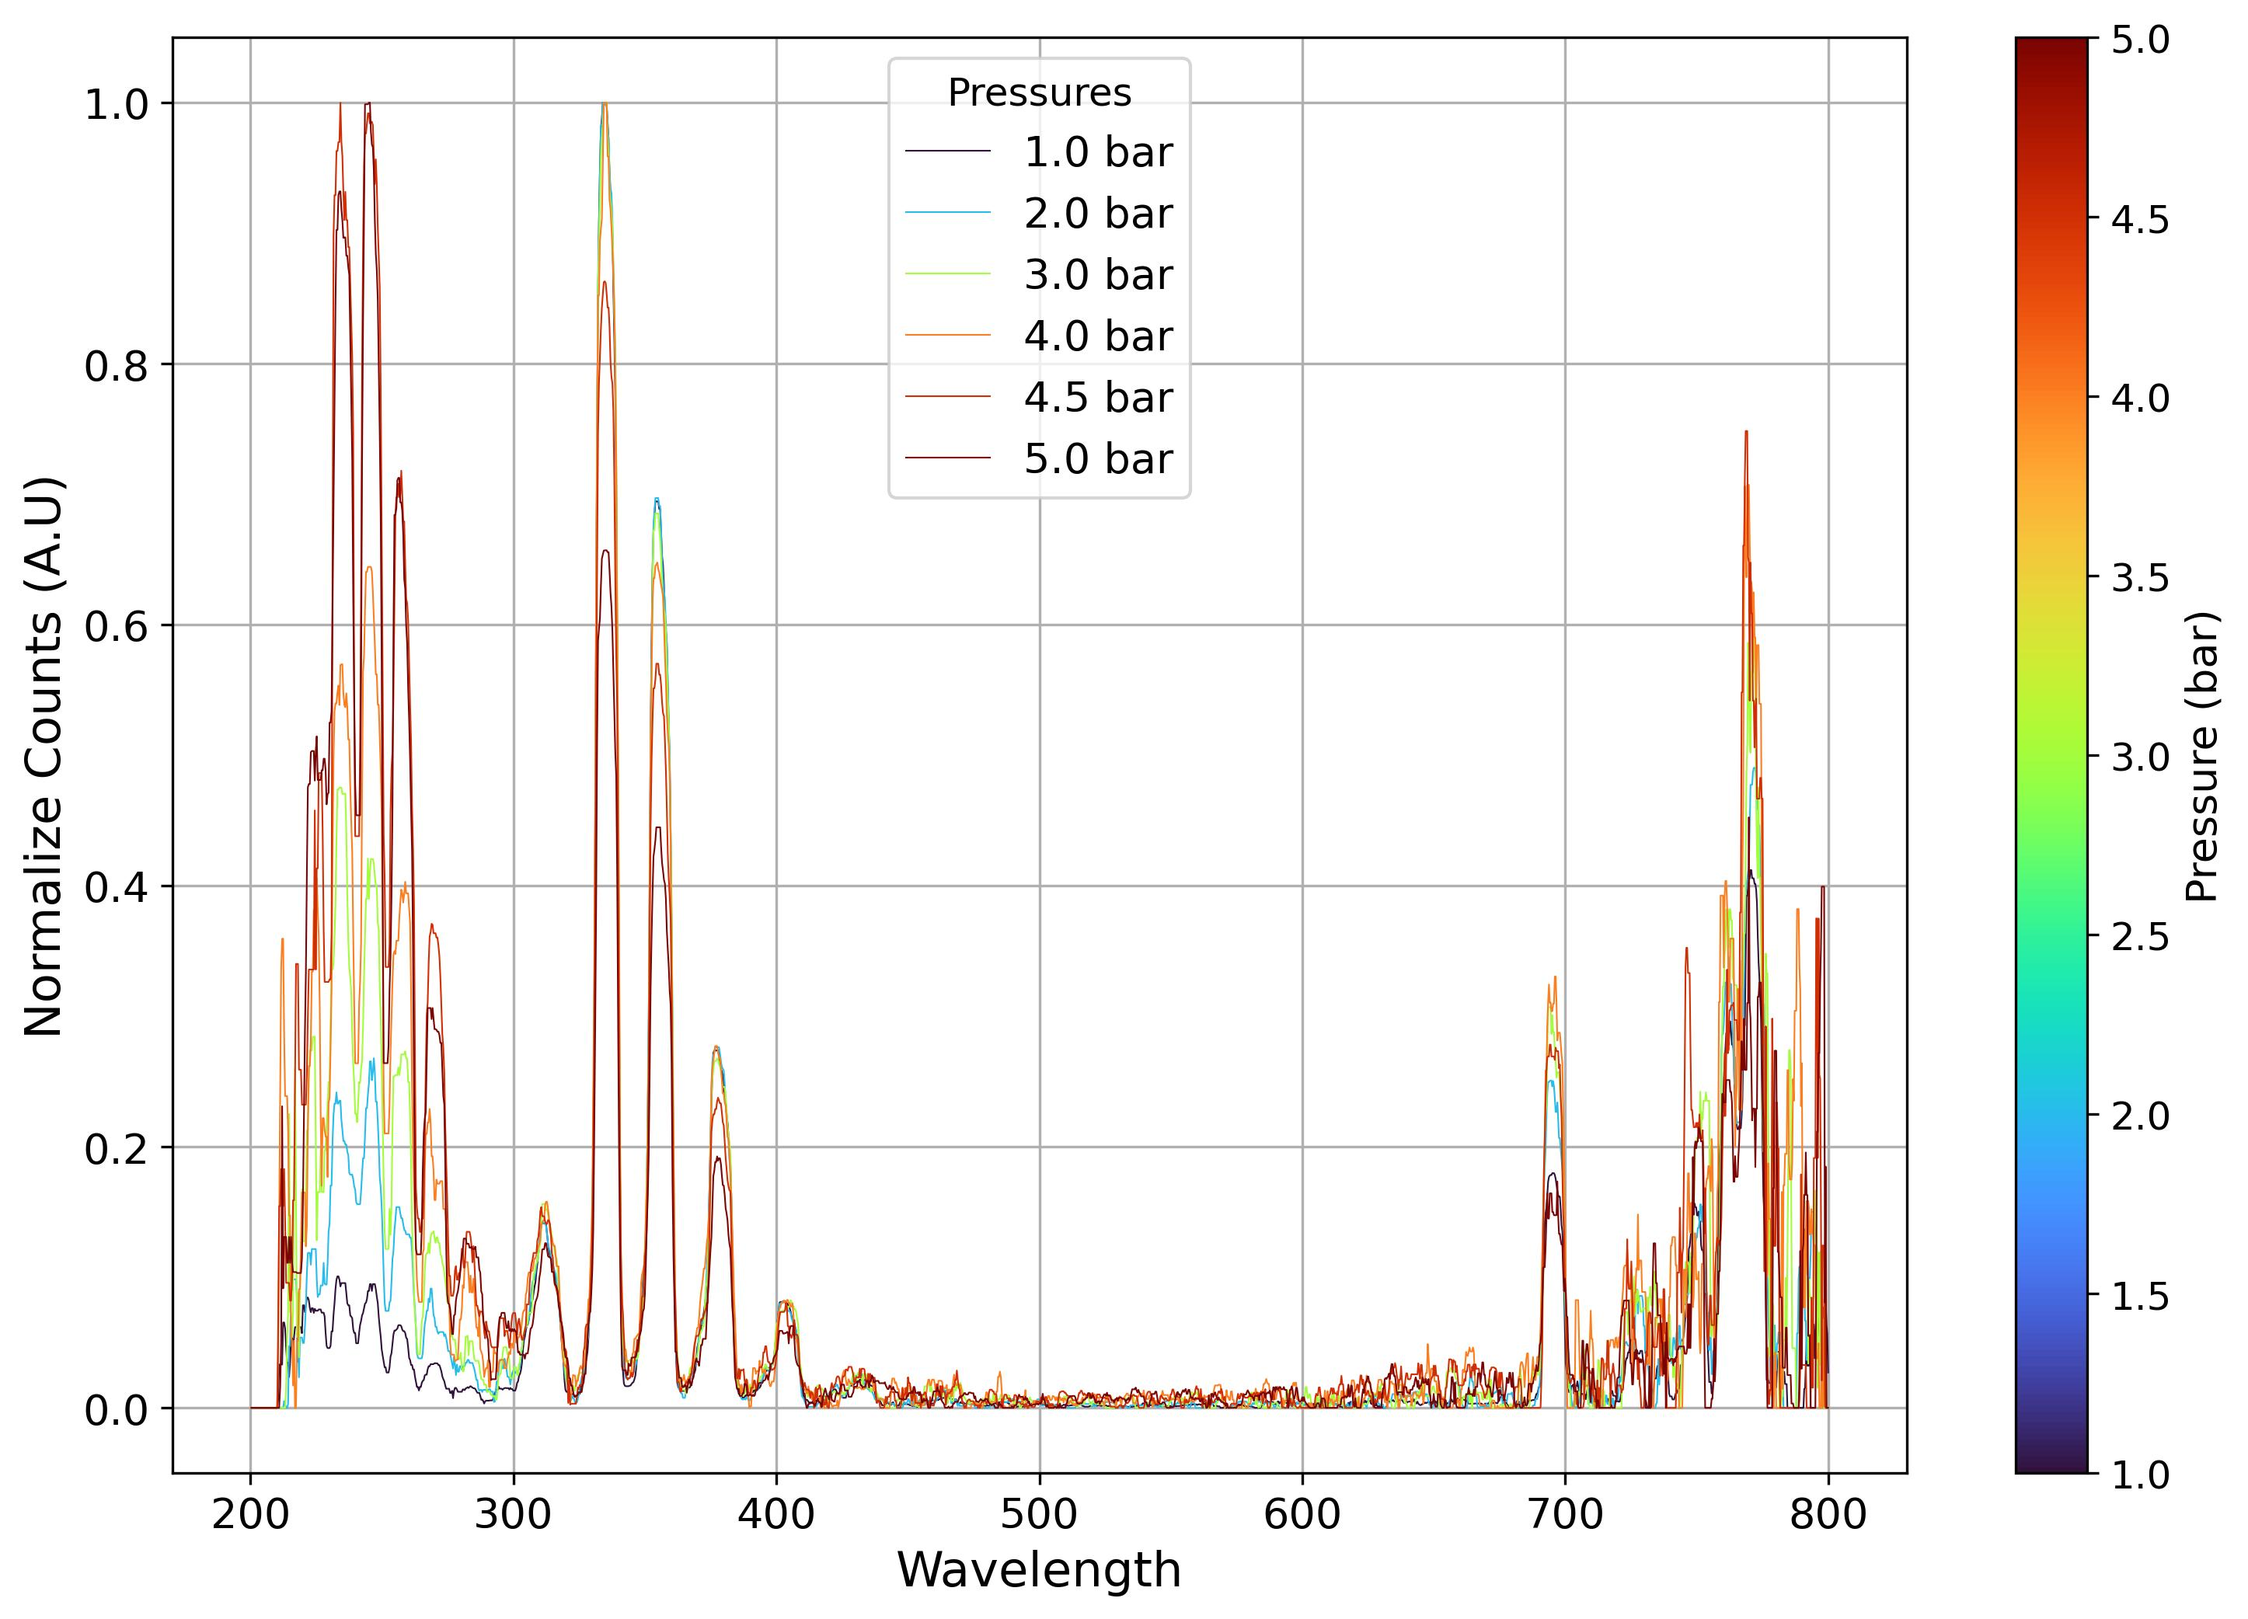
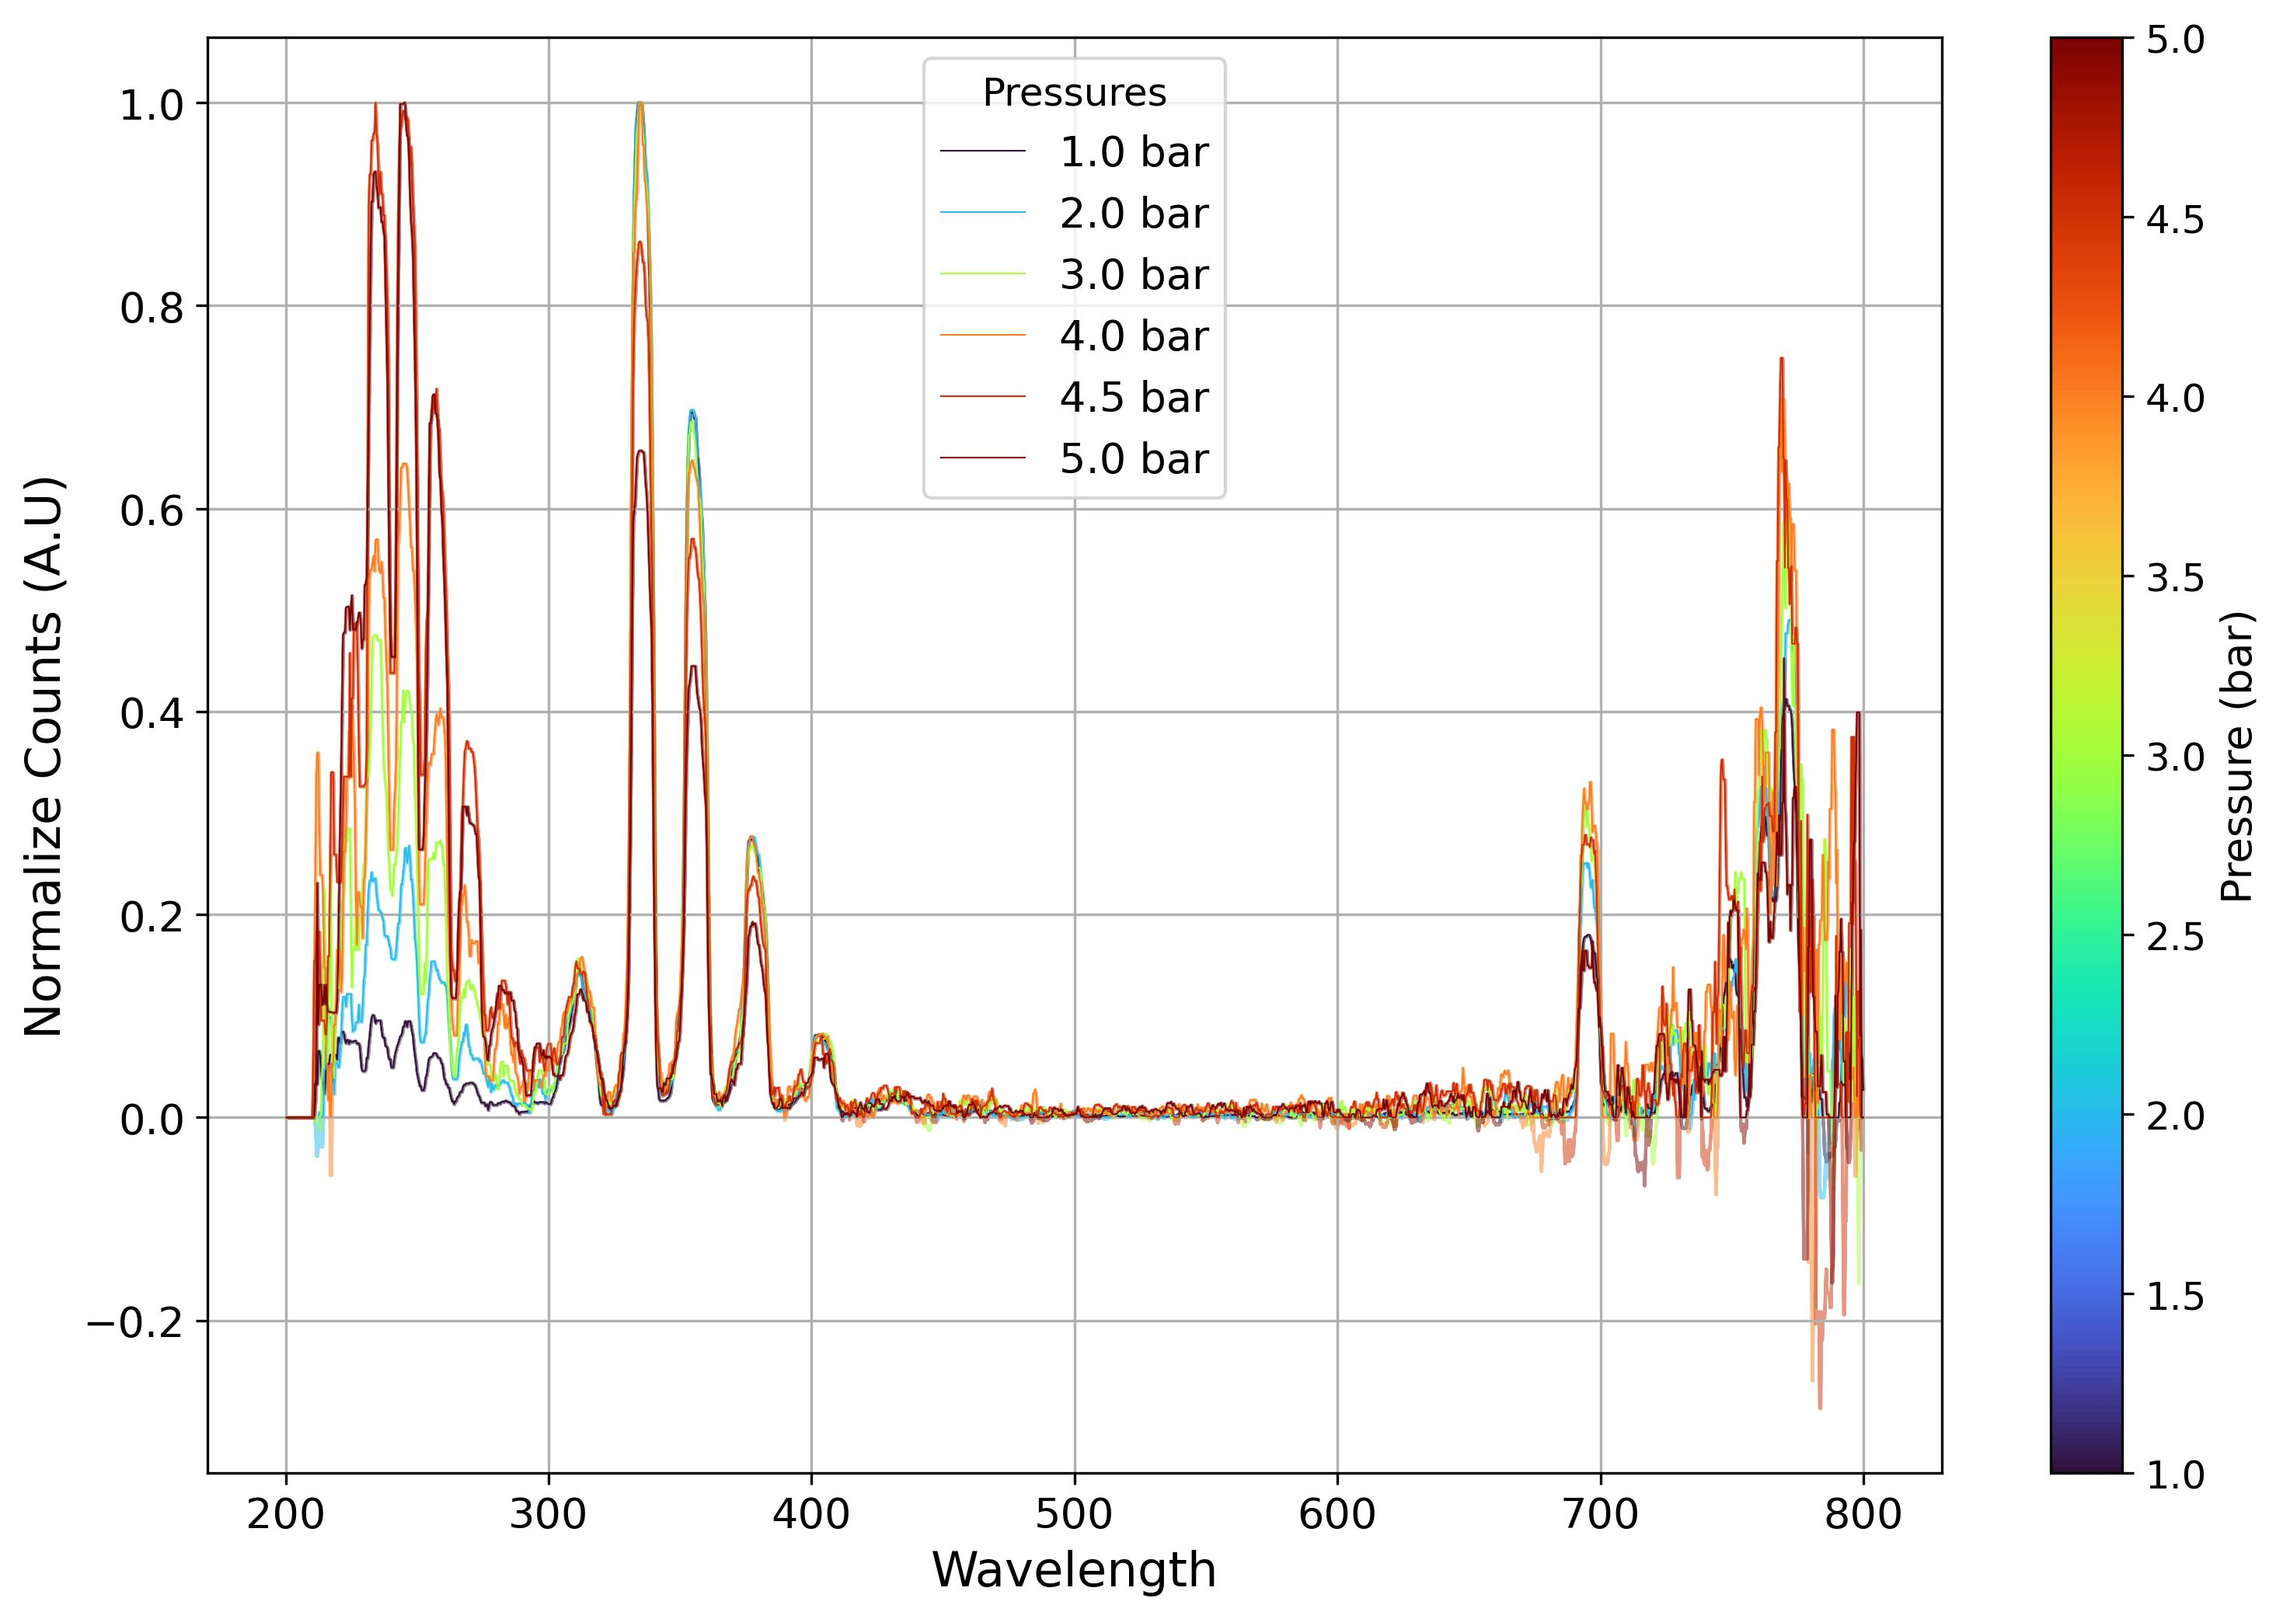
Uncertanties and reference

diff --git a/Programmes/Ultraviolet.py b/Programmes/Ultraviolet.py
@@ -83,16 +83,35 @@ def extraer_presion(ruta):
                 return float('inf')  # Por si hay algún error, lo manda al final
     return float('inf')
 
-def integral(dt, col_x, col_y, lim_inf, lim_sup):
+def integral(dt, col_x, err_x, col_y, err_y, lim_inf, lim_sup):
     mask = (dt[col_x] >= lim_inf) & (dt[col_x] <= lim_sup)
-    dt_filtered = dt[mask].sort_values(by=col_x)
+    dt_filtered = dt[mask].sort_values(by=col_x).reset_index(drop=True)
 
-    # Calcular la integral con método del trapecio
-    area = np.trapezoid(y=dt_filtered[col_y], x=dt_filtered[col_x])
+    x = dt_filtered[col_x].values
+    y = dt_filtered[col_y].values
+    dy = dt_filtered[err_y].values  # Uncertainty in y
+    dx = dt_filtered[err_x].values if err_x in dt_filtered.columns else np.diff(x, prepend=x[0])
 
-    return area
+    # Trapezoidal integration
+    area = np.trapezoid(y=y, x=x)
 
-element_mix = 'N2'
+    error_squared = 0
+    for i in range(len(x)-1):
+        base = x[i+1] - x[i]
+        avg_y_err_sq = base**2 * (dy[i+1]**2+dy[i]**2)
+        error_squared += avg_y_err_sq
+
+    total_error = np.sqrt(error_squared)
+
+    return area, total_error
+
+# Errores:
+err_SC = 0.05e-7 #A
+err_lambda = 50 #nm
+err_pressure = 5e-3 #bar
+#----------------
+
+element_mix = 'N2' 
 Mix_Integrals = {}
 list_concentraciones = [1,5]
 
@@ -111,8 +130,6 @@ for concentration_mix in list_concentraciones:
 
     rutas = glob(pattern)
     rutas_ordenadas = sorted(rutas, key=extraer_presion)
-
-    err_SC = 0.05e-7
 
     pressures = []
     currents = []
@@ -152,30 +169,34 @@ for concentration_mix in list_concentraciones:
         df = pd.DataFrame({
                 'Lambda': df_results['Lambda'],
                 'Counts': df_results['Counts'],
-                'Counts_norm': df_results['Counts']/max(df_results['Counts']),
                 'Err_Counts': np.sqrt(df_results['Counts'].clip(lower=0)),
+                'Counts_norm': df_results['Counts']/max(df_results['Counts']),
+                'Err_Counts_norm': np.sqrt(df_results['Counts'].clip(lower=0))/max(df_results['Counts']),
                 'Phe':df_phe,
                 'Err_Phe': err_phe
                 })
 
         data.append(df)
 
-        # [0]: Corriente de Saturacion
-        # [1]: Voltaje de Saturacion
-        # [2]: Numero de Electrones
-        # [3]: Array photons per electron
-
 #   ---- Calculo Integral ----
 
     print('Lista de presiones: ', pressures)
     integrales = []
+    err_integral = []
     for ValPressure in pressures:
-        sum = integral(data[int(ValPressure)], 'Lambda', 'Phe', 200, 300)
+        sum, err = integral(data[int(ValPressure)], 
+                       'Lambda', err_lambda,
+                       'Phe', 'Err_Phe',
+                       200, 300)
         integrales.append(sum)
+        err_integral.append(err)
+
+    print(err_integral)
 
     df = pd.DataFrame({
             'Pressures': pressures,
-            'integrals': integrales 
+            'integrals': integrales, 
+            'Err_int': err_integral
             })
 
     Mix_Integrals[concentration_mix] = df
@@ -227,10 +248,21 @@ for concentration_mix in list_concentraciones:
 
 plt.figure(figsize=(12,8))
 
-plt.plot(Mix_Integrals[1]['Pressures'], Mix_Integrals[1]['integrals'],
-         label='99/1', color='crimson')
-plt.plot(Mix_Integrals[5]['Pressures'], Mix_Integrals[5]['integrals'],
-         label='95/5', color='navy')
+plt.errorbar(Mix_Integrals[1]['Pressures'], 
+             Mix_Integrals[1]['integrals'], 
+             xerr= err_pressure,
+             yerr = Mix_Integrals[1]['Err_int'],
+             label='99/1', 
+             fmt='^', markersize = 10,
+             color='crimson')
+
+plt.errorbar(Mix_Integrals[5]['Pressures'], 
+         Mix_Integrals[5]['integrals'],
+         xerr = err_pressure,
+         yerr= Mix_Integrals[5]['Err_int'],
+         label='95/5', 
+         fmt='v', markersize = 10, 
+         color='navy')
 
 plt.legend(fontsize=20)
 plt.xlabel('Pressure (bar)', fontsize=15)

diff --git a/Programmes/Pressure_variance.py b/Programmes/Pressure_variance.py
@@ -92,8 +92,16 @@ def integral(dt, col_x, col_y, lim_inf, lim_sup):
 
     return area
 
+# ------ Errors -----------
+
+err_SC = 0.05e-7
+
+# -------- element and concentration ------------
+
 element_mix = 'N2'
-concentration_mix = 5
+concentration_mix = 1
+
+# -------- Pahts ------------
 
 excel_path = r'C:\Users\genar\VSC code\CERN-Summer\Whole_Data.xlsx'
 base_path = rf'C:\Users\genar\Documents\CERN Summer 2025\Carpeta para CERNbox\Spectra_2025_Pablo_Raul_Genaro\{element_mix}\{concentration_mix}'
@@ -102,7 +110,27 @@ pattern = os.path.join(base_path, '*_bar', '40kV40mA', '0V')
 rutas = glob(pattern)
 rutas_ordenadas = sorted(rutas, key=extraer_presion)
 
-err_SC = 0.05e-7
+# ------ Reference --------
+
+Ruta_Candela = r"C:\Users\genar\Documents\CERN Summer 2025\Carpeta para CERNbox\Spectra_2025_Pablo_Raul_Genaro\CF4\5\5_bar\40kV40mA\After_WindowChange"
+
+Candela_FD = RP(Ruta_Candela)
+df_candela = Candela_FD['calibratedResults']
+
+filters_candela = {
+    'Element A': 'Ar',
+    'Concentration A':  95,
+    'Element B': 'CF4',
+    'Concentration B': 5,
+    'Pressure (bar)': 5
+}
+
+Current_candela = Excel_value(excel_path, filters_candela, 'SC')
+NumElectronsCandela = Current_candela / (-1.602176634e-19)
+
+Candela_phe = df_candela['Counts'] / NumElectronsCandela
+
+# -------------------------------------------------------
 
 pressures = []
 currents = []
@@ -142,8 +170,9 @@ for i in rutas_ordenadas:
     df = pd.DataFrame({
             'Lambda': df_results['Lambda'],
             'Counts': df_results['Counts'],
-            'Counts_norm': df_results['Counts']/max(df_results['Counts']),
             'Err_Counts': np.sqrt(df_results['Counts'].clip(lower=0)),
+            'Counts_norm': df_results['Counts']/max(df_results['Counts']),
+            'Err_Counts_norm': np.sqrt(df_results['Counts'].clip(lower=0))/max(df_results['Counts']),
             'Phe':df_phe,
             'Err_Phe': err_phe
             })
@@ -212,6 +241,11 @@ for i in range(len(pressures)):
             label=f'{pressures[i]} bar',
             color=color,
             linewidth=0.5)
+    ax.fill_between(data[i]['Lambda'], 
+                    data[i]['Counts']-data[i]['Err_Counts'],
+                    data[i]['Counts']+data[i]['Err_Counts'],
+                    color=color,
+                    alpha = 0.5)
 
 ax.set_xlabel('Wavelength', fontsize=15)
 ax.set_ylabel('Absolute Counts (A.U)', fontsize=15)
@@ -244,6 +278,11 @@ for i in range(len(pressures)):
             label=f'{pressures[i]} bar',
             color=color,
             linewidth=0.5)
+    ax.fill_between(data[i]['Lambda'], 
+                    data[i]['Counts_norm']-data[i]['Err_Counts_norm'],
+                    data[i]['Counts_norm']+data[i]['Err_Counts_norm'],
+                    color=color,
+                    alpha = 0.5)
 
 ax.set_xlabel('Wavelength', fontsize=15)
 ax.set_ylabel('Normalize Counts (A.U)', fontsize=15)
@@ -272,10 +311,18 @@ fig, ax = plt.subplots(figsize=(12, 8))
 
 for i in range(len(pressures)):
     color = colormap(norm(pressures[i]))
-    ax.errorbar(data[i]['Lambda'], data[i]['Phe'], yerr=data[i]['Err_Phe'],
+    ax.plot(data[i]['Lambda'], data[i]['Phe'],
             label=f'{pressures[i]} bar',
             color=color,
             linewidth=0.5)
+    ax.fill_between(data[i]['Lambda'], 
+                    data[i]['Phe']-data[1]['Err_Phe'],
+                    data[i]['Phe']+data[1]['Err_Phe'],
+                    color=color,
+                    alpha = 0.5)
+    
+ax.plot(df_candela['Lambda'], Candela_phe, 
+         label=f'Reference - {Current_candela} A', color='darkviolet', linewidth = 0.5)
 
 ax.set_xlabel('Wavelength', fontsize=15)
 ax.set_ylabel(r'Photons / electrons (A.U)', fontsize=15)

diff --git a/Programmes/DataSorting.py b/Programmes/DataSorting.py
@@ -1,3 +1,4 @@
+#%%
 import os
 import sys
 import shutil
@@ -342,7 +343,26 @@ print('----------------------------------------------')
 #------------- Ruta ----------------
 
 Ruta=r"C:\Users\genar\Documents\CERN Summer 2025\Carpeta para CERNbox\Spectra_2025_Pablo_Raul_Genaro\N2\5\1_bar\40kV40mA\0V"
+Ruta_Candela = r"C:\Users\genar\Documents\CERN Summer 2025\Carpeta para CERNbox\Spectra_2025_Pablo_Raul_Genaro\CF4\5\5_bar\40kV40mA\After_WindowChange"
 excel_path = r'C:\Users\genar\VSC code\CERN-Summer\Whole_Data.xlsx'
+
+# ----------- Reference --------------
+
+Candela_FD = RP(Ruta_Candela)
+df_candela = Candela_FD['calibratedResults']
+
+filters_candela = {
+    'Element A': 'Ar',
+    'Concentration A':  95,
+    'Element B': 'CF4',
+    'Concentration B': 5,
+    'Pressure (bar)': 5
+}
+
+Current_candela = Excel_value(excel_path, filters_candela, 'SC')
+NumElectronsCandela = Current_candela / (-1.602176634e-19)
+
+Candela_phe = df_candela['Counts'] / NumElectronsCandela
 
 # ------- Analisis de Ruta -----------
 
@@ -460,10 +480,14 @@ df_raw = filtered_data['rawSpectrum']               # raw Signal
 
 df_results = filtered_data['calibratedResults']
 
-plt.figure(figsize=(12,8))
 
+plt.figure(figsize=(12,8))
 plt.plot(df_results['Lambda'], df_results['Counts'], 
          label=f'{name}', color='crimson', linewidth = 0.5, alpha = 1)
+
+plt.plot(df_candela['Lambda'], df_candela['Counts'], 
+         label=f'Reference', color='darkviolet', linewidth = 0.5, alpha = 1)
+
 plt.legend(fontsize=20)
 plt.xlabel('Wavelenght', fontsize=15)
 plt.ylabel('Absolute Counts (A.U.)', fontsize=15)
@@ -473,10 +497,13 @@ plt.grid()
 plt.savefig(f'{Ruta}\{folder_name}\{name}_CalibratedResults.jpg', format='jpg', 
             bbox_inches='tight', dpi = 300)
 
-plt.figure(figsize=(12,8))
 
+
+plt.figure(figsize=(12,8))
 plt.plot(df_results['Lambda'], df_results['Counts_norm'], 
          label=f'{name}', color='crimson', linewidth = 0.5, alpha = 1)
+plt.plot(df_candela['Lambda'], df_candela['Counts_norm'], 
+         label=f'Reference', color='darkviolet', linewidth = 0.5, alpha = 1)
 plt.legend(fontsize=20)
 plt.xlabel('Wavelenght', fontsize=15)
 plt.ylabel('Normalize Counts (A.U.)', fontsize=15)
@@ -501,6 +528,9 @@ plt.figure(figsize=(12,8))
 
 plt.plot(df_results['Lambda'], intensity_Results_photon, 
          label=f'{Saturation_current} A', color='blue', linewidth = 0.5)
+
+plt.plot(df_candela['Lambda'], Candela_phe, 
+         label=f'Reference - {Current_candela} A', color='darkviolet', linewidth = 0.5)
 
 plt.legend(fontsize=20)
 plt.xlabel('Wavelenght', fontsize=15)

diff --git a/Programmes/Pressure_cal.py b/Programmes/Pressure_cal.py
@@ -42,6 +42,12 @@ columna1 = presiones
 columna2 = voltajes
 
 datos = np.column_stack((columna1, columna2))
+# np.savetxt("VoltajesyPresiones.txt", datos, delimiter='\t', fmt='%.4f')
 
-# Usamos formatter con repr para máxima precisión
-np.savetxt("VoltajesyPresiones.txt", datos, delimiter='\t', fmt='%.4f')
+m_inverse = 1/pop[0]
+err_inverse = np.sqrt(np.diag(cov))[0]/pop[0]
+
+val_presion = 0.005*m_inverse
+err_valpresion = 0.005*err_inverse
+
+print(val_presion, err_valpresion)
